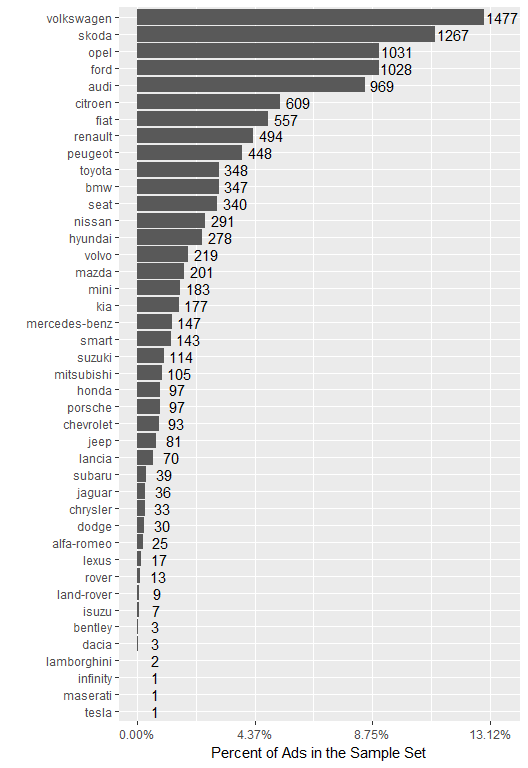
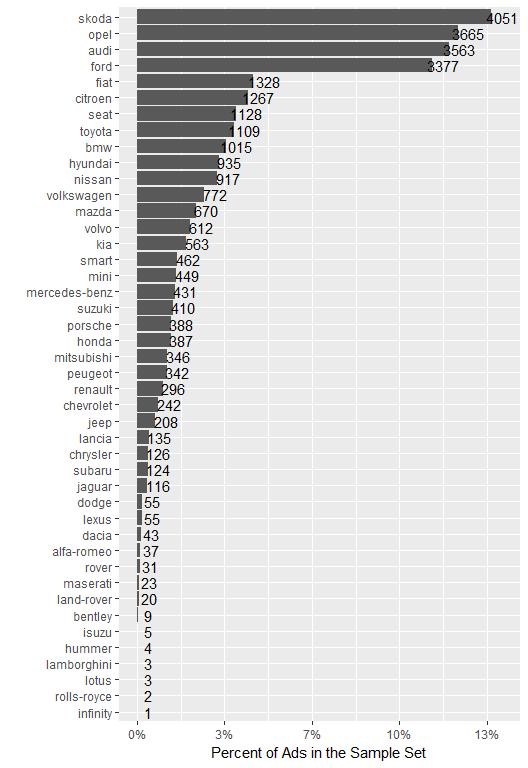
no message

diff --git a/notebooks/load-data-igorb3.md b/notebooks/load-data-igorb3.md
@@ -89,22 +89,38 @@ running the HQL statement below.
 
     dbGetQuery(conn, "select count (*) from events")
 
-For the analysis we will extract not more than 20K rows from EVENT table
-randomly using the HQL statement below. We skip the rows mising one of
-the folloowing important attributes: maker, model, mileage,
-manufacture\_year or price\_eur. As we can see, we had only 11431
-samples complying to this condition:
+For the analysis we will extract not more than 30K rows from EVENT table
+randomly using the HQL statement below. We skip the rows mising
+attributes except for the ones not importants and rarely filled like
+body\_type, color\_slug and stk\_year:
 
 ``` r
-lim <- 20000/3552912
+filter <- paste(
+      " maker <> ''",
+      " AND model <> ''",
+      " AND mileage is not NULL",
+      " AND manufacture_year is not NULL",
+      " AND engine_displacement is not NULL",
+      " AND engine_power is not NULL",
+      " AND transmission <> ''",
+      " AND door_count is not NULL",
+      " AND seat_count is not NULL",
+      " AND fuel_type <> ''",
+      " AND date_created is not NULL",
+      " AND date_last_seen is not NULL"
+) 
+count <- dbGetQuery(conn, paste("select count(*) from events", " WHERE", filter))
+cars.sample.totalFilered <- count$`_c0`
+```
+
+``` r
+car.sample.maxSize <- 30000
+lim <- car.sample.maxSize/cars.sample.totalFilered
 
 sample_HQL <- paste(
-  "select * from events",
-    " WHERE",
-      " rand(123) <= ", lim,
-      " AND maker <> '' AND model <> '' AND mileage is not NULL AND manufacture_year is not NULL",
-      " AND price_eur is not NULL",
-  " limit 20000"
+  "select * from events WHERE", filter,
+      " AND rand(123) < ", lim,
+  " limit ", 1.2 * car.sample.maxSize
 ) 
 
 cars.sample <- dbGetQuery(conn, sample_HQL)
@@ -115,68 +131,35 @@ colnames(cars.sample) <- c(
 nrow(cars.sample)
 ```
 
-    ## [1] 11431
+    ## [1] 29725
 
 ``` r
 kable(head(cars.sample))
 ```
 
-| Maker   | Model    | Mileage | Year | Disp | Pwr | Body | Color | Sticker | Trans | Doors | Seats | Fuel   | Listed                  | Removed                 |    Price |
-| :------ | :------- | ------: | ---: | ---: | --: | :--- | :---- | :------ | :---- | ----: | ----: | :----- | :---------------------- | :---------------------- | -------: |
-| nissan  | qashqai  |   44450 | 2010 | 2000 | 110 |      |       | None    | man   |     5 |     5 | diesel | 2015-11-14 18:54:14.758 | 2016-01-27 20:40:15.463 | 13693.56 |
-| ford    | mondeo   |  159217 | 2005 | 1998 |  96 |      |       | None    | man   |     5 |     5 | diesel | 2015-11-14 18:55:26.371 | 2016-01-27 20:40:15.463 |  3252.70 |
-| volvo   | v40      |   18755 | 2013 | 1560 |  84 |      |       | None    | man   |     5 |     5 | diesel | 2015-11-14 18:55:27.402 | 2016-01-27 20:40:15.463 | 19059.96 |
-| citroen | berlingo |    5000 | 2015 | 1560 |  88 |      |       | None    | man   |    NA |    NA | diesel | 2015-11-14 18:55:33.292 | 2016-01-27 20:40:15.463 | 14776.09 |
-| skoda   | octavia  |   14251 | 2014 | 1598 |  77 |      |       | None    | man   |     5 |     5 | diesel | 2015-11-14 18:55:37.782 | 2016-01-27 20:40:15.463 | 17760.92 |
-| skoda   | superb   |  175159 | 2011 | 2000 | 103 |      |       | None    | auto  |     5 |     5 | diesel | 2015-11-14 18:55:41.427 | 2016-01-27 20:40:15.463 | 14433.75 |
+| Maker   | Model  | Mileage | Year | Disp | Pwr | Body | Color | Sticker | Trans | Doors | Seats | Fuel     | Listed                  | Removed                 |    Price |
+| :------ | :----- | ------: | ---: | ---: | --: | :--- | :---- | :------ | :---- | ----: | ----: | :------- | :---------------------- | :---------------------- | -------: |
+| skoda   | fabia  |  130340 | 2001 | 1400 |  50 |      |       | None    | man   |     5 |     5 | gasoline | 2015-11-14 18:10:07.638 | 2016-01-27 20:40:15.463 |  2442.64 |
+| skoda   | fabia  |   87777 | 2005 | 1400 |  51 |      |       | None    | man   |     5 |     5 | diesel   | 2015-11-14 18:10:08.414 | 2016-01-27 20:40:15.463 |  3256.85 |
+| ford    | mondeo |  164867 | 2012 | 2000 | 120 |      |       | None    | man   |     5 |     5 | diesel   | 2015-11-14 18:10:08.693 | 2016-01-27 20:40:15.463 | 11102.89 |
+| citroen | c5     |  126500 | 2006 | 1600 |  80 |      |       | None    | man   |     5 |     5 | diesel   | 2015-11-14 18:10:08.737 | 2016-01-27 20:40:15.463 |  3256.85 |
+| skoda   | fabia  |    7993 | 2015 | 1200 |  81 |      |       | None    | man   |     5 |     5 | gasoline | 2015-11-14 18:54:14.7   | 2016-01-27 20:40:15.463 | 11102.89 |
+| hyundai | ix20   |   23196 | 2013 | 1400 |  66 |      |       | None    | man   |     5 |     5 | gasoline | 2015-11-14 18:54:16.114 | 2016-01-27 20:40:15.463 |  9807.55 |
 
 ``` r
-summary(cars.sample)
+# summary(cars.sample)
 ```
-
-    ##     Maker              Model              Mileage             Year     
-    ##  Length:11431       Length:11431       Min.   :      0   Min.   :   0  
-    ##  Class :character   Class :character   1st Qu.:  26116   1st Qu.:2005  
-    ##  Mode  :character   Mode  :character   Median :  94220   Median :2010  
-    ##                                        Mean   : 121082   Mean   :2003  
-    ##                                        3rd Qu.: 159226   3rd Qu.:2014  
-    ##                                        Max.   :9257655   Max.   :2017  
-    ##                                                                        
-    ##       Disp            Pwr             Body              Color          
-    ##  Min.   :   13   Min.   : 10.00   Length:11431       Length:11431      
-    ##  1st Qu.: 1390   1st Qu.: 66.00   Class :character   Class :character  
-    ##  Median : 1598   Median : 81.00   Mode  :character   Mode  :character  
-    ##  Mean   : 1878   Mean   : 92.23                                        
-    ##  3rd Qu.: 1984   3rd Qu.:105.00                                        
-    ##  Max.   :32000   Max.   :558.00                                        
-    ##  NA's   :1836    NA's   :1119                                          
-    ##    Sticker             Trans               Doors           Seats       
-    ##  Length:11431       Length:11431       Min.   :0.000   Min.   : 0.000  
-    ##  Class :character   Class :character   1st Qu.:4.000   1st Qu.: 5.000  
-    ##  Mode  :character   Mode  :character   Median :4.000   Median : 5.000  
-    ##                                        Mean   :4.114   Mean   : 4.892  
-    ##                                        3rd Qu.:5.000   3rd Qu.: 5.000  
-    ##                                        Max.   :6.000   Max.   :55.000  
-    ##                                        NA's   :2695    NA's   :3307    
-    ##      Fuel              Listed            Removed              Price       
-    ##  Length:11431       Length:11431       Length:11431       Min.   :     0  
-    ##  Class :character   Class :character   Class :character   1st Qu.:  1295  
-    ##  Mode  :character   Mode  :character   Mode  :character   Median :  6891  
-    ##                                                           Mean   : 10117  
-    ##                                                           3rd Qu.: 14350  
-    ##                                                           Max.   :781863  
-    ## 
 
 ``` r
 require(forcats)
 total <- nrow(cars.sample)
 ggplot(cars.sample, aes(fct_rev(fct_infreq(Maker)))) +
        geom_bar() + 
-       geom_text(stat = "count", aes(label = ..count.., y = ..count..), nudge_y = 75)+
+       geom_text(stat = "count", aes(label = ..count.., y = ..count..), nudge_y = 120)+
 #       theme(axis.text.x = element_text(angle =90 , hjust = 1, vjust = 0.5)) +
        labs(x="", y="Percent of Ads in the Sample Set") +
 #       scale_y_log10(breaks = c(1, 2, 5, 10, 25, 50, 100, 250, 500, 1000)) +
-        scale_y_continuous(labels = function(x) sprintf("%.2f%%",x/total*100)) +
+        scale_y_continuous(labels = function(x) sprintf("%.0f%%",x/total*100)) +
        coord_flip()
 ```
 
